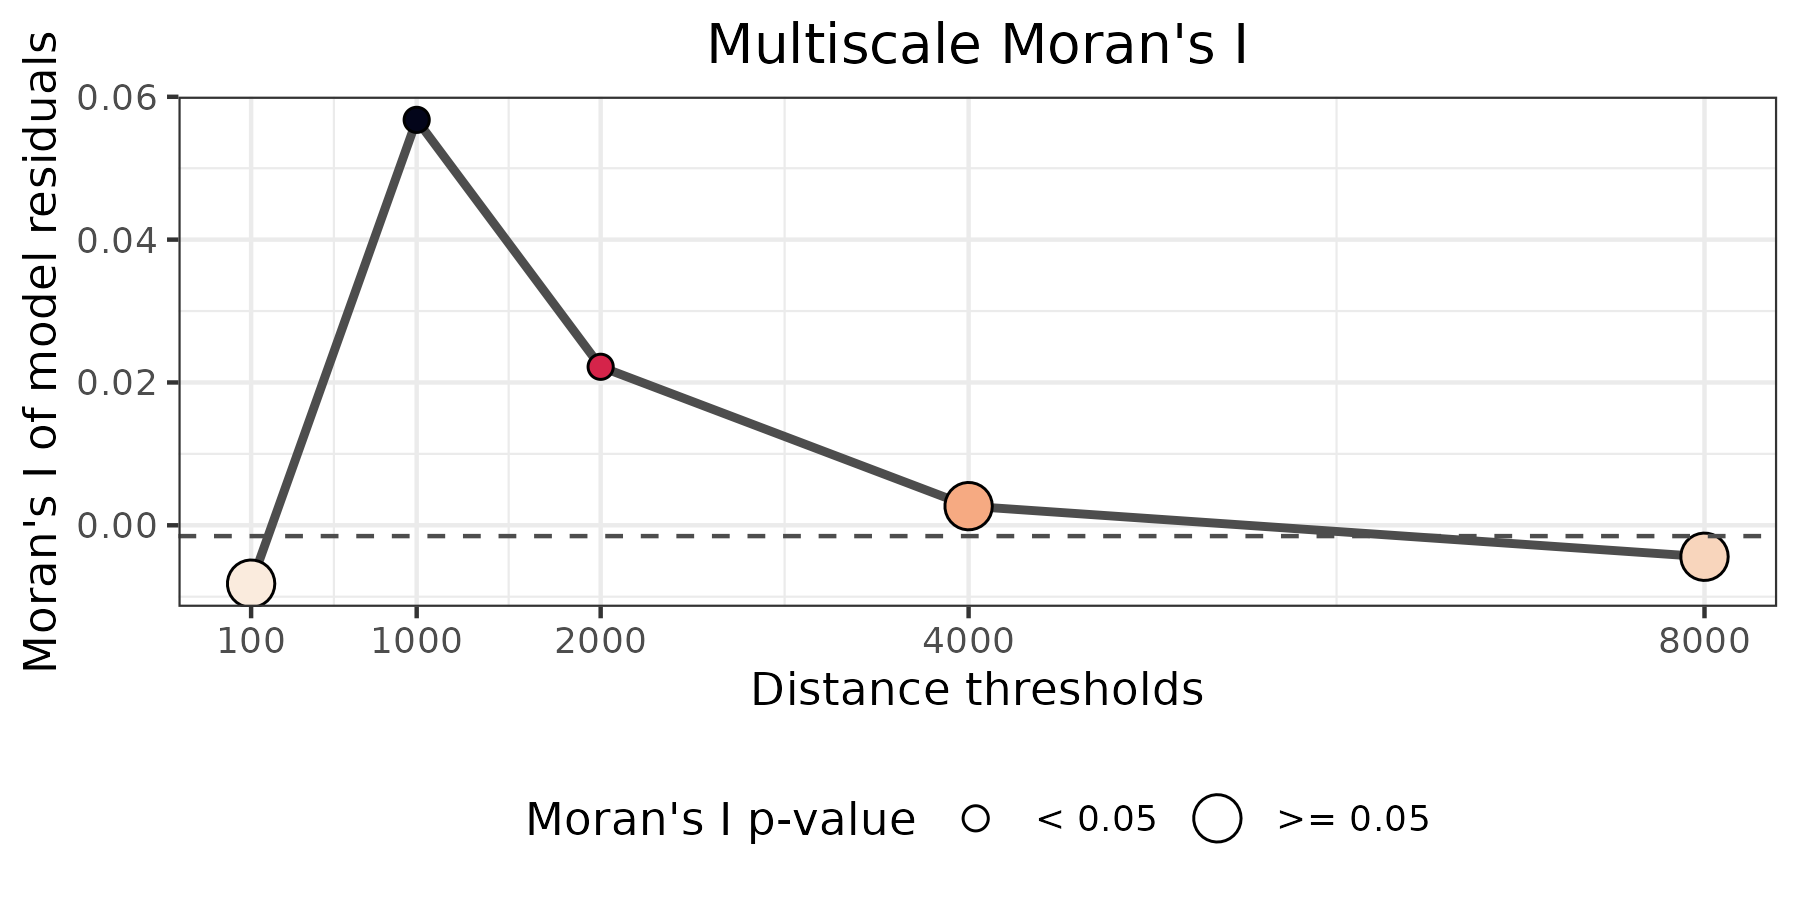
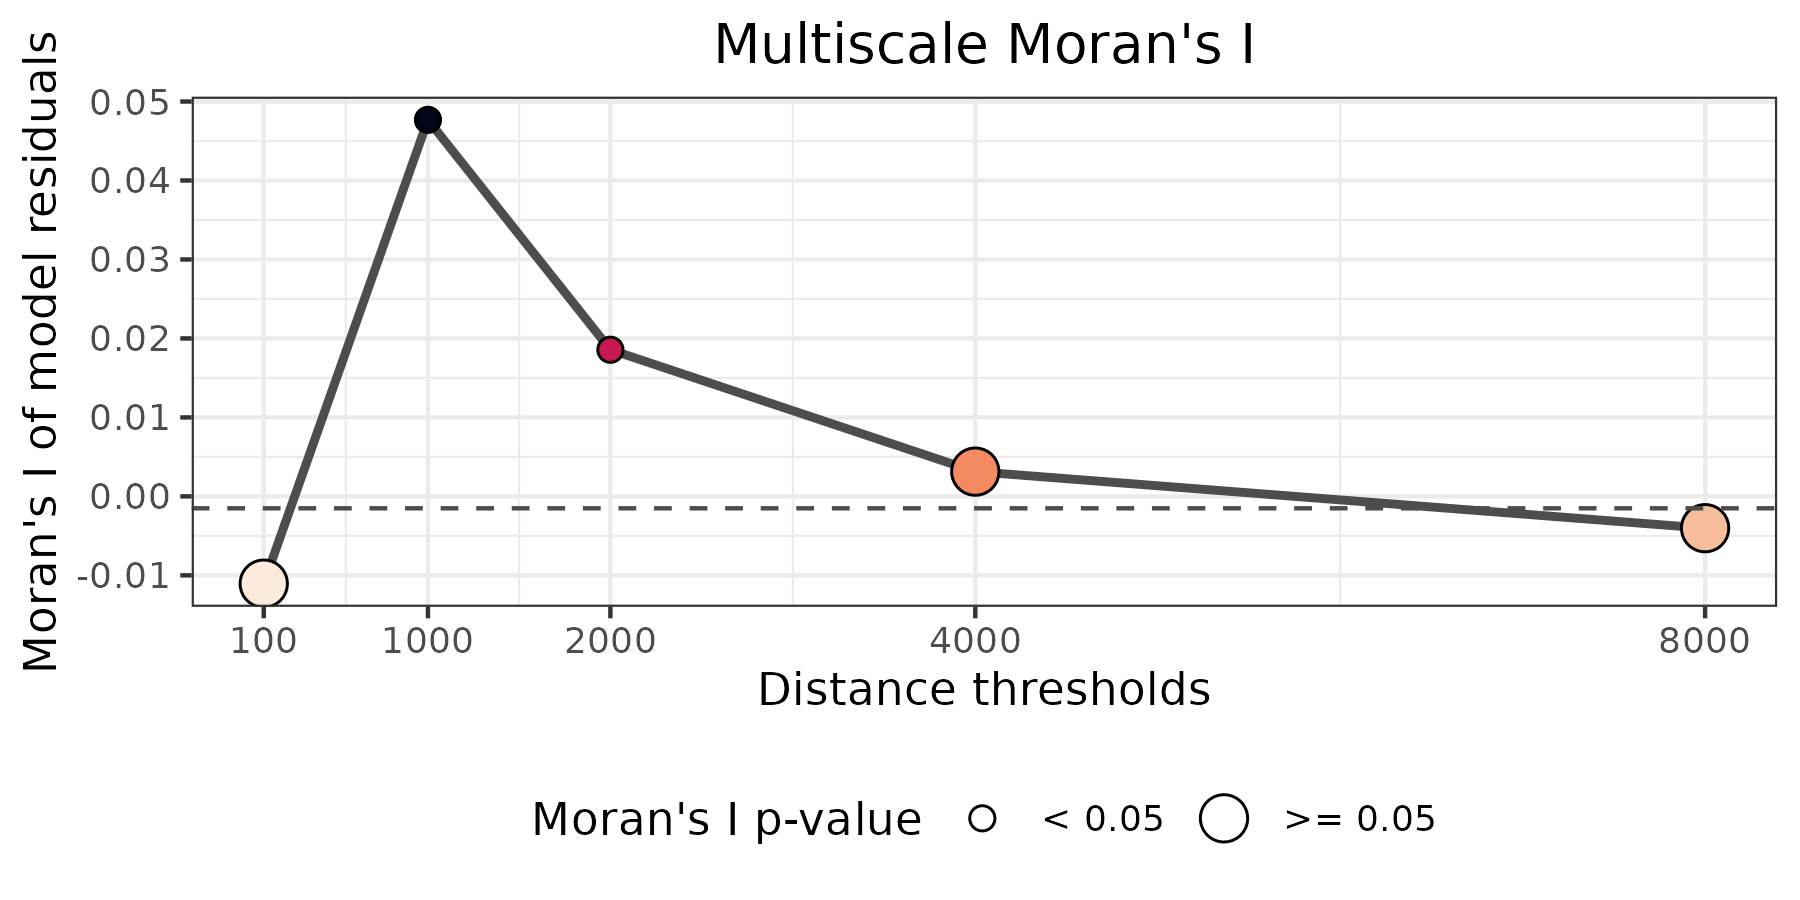
Deploying to gh-pages from @ BlasBenito/spatialData@04da23ed108ac5d3d7eef409ef45ea070589ce5c 🚀

diff --git a/articles/interaction.html b/articles/interaction.html
@@ -137,9 +137,9 @@ this tutorial.</p>
 <span><span class="co">#&gt; <span style="color: #00BBBB;">ℹ</span> Installing system requirements</span></span>
 <span><span class="co">#&gt; <span style="color: #00BBBB;">ℹ</span> Executing `sudo sh -c apt-get -y update`</span></span>
 <span><span class="co">#&gt; Get:1 file:/etc/apt/apt-mirrors.txt Mirrorlist [144 B]</span></span>
-<span><span class="co">#&gt; Hit:2 http://azure.archive.ubuntu.com/ubuntu noble InRelease</span></span>
 <span><span class="co">#&gt; Hit:6 https://packages.microsoft.com/repos/azure-cli noble InRelease</span></span>
 <span><span class="co">#&gt; Hit:7 https://packages.microsoft.com/ubuntu/24.04/prod noble InRelease</span></span>
+<span><span class="co">#&gt; Hit:2 http://azure.archive.ubuntu.com/ubuntu noble InRelease</span></span>
 <span><span class="co">#&gt; Hit:3 http://azure.archive.ubuntu.com/ubuntu noble-updates InRelease</span></span>
 <span><span class="co">#&gt; Hit:4 http://azure.archive.ubuntu.com/ubuntu noble-backports InRelease</span></span>
 <span><span class="co">#&gt; Hit:5 http://azure.archive.ubuntu.com/ubuntu noble-security InRelease</span></span>
@@ -170,8 +170,8 @@ this tutorial.</p>
 <span><span class="co">#&gt; libharfbuzz-dev is already the newest version (8.3.0-2build2).</span></span>
 <span><span class="co">#&gt; libxml2-dev is already the newest version (2.9.14+dfsg-1.3ubuntu3.7).</span></span>
 <span><span class="co">#&gt; The following additional packages will be installed:</span></span>
-<span><span class="co">#&gt;   dvisvgm fonts-lmodern fonts-texgyre fonts-texgyre-math libgumbo2</span></span>
-<span><span class="co">#&gt; libkpathsea6 libmujs3 libpotrace0 libptexenc1 libsynctex2 libteckit0</span></span>
+<span><span class="co">#&gt; dvisvgm fonts-lmodern fonts-texgyre fonts-texgyre-math libgumbo2</span></span>
+<span><span class="co">#&gt;   libkpathsea6 libmujs3 libpotrace0 libptexenc1 libsynctex2 libteckit0</span></span>
 <span><span class="co">#&gt;   libtexlua53-5 libwoff1 libzzip-0-13t64 lmodern mupdf-tools tex-gyre</span></span>
 <span><span class="co">#&gt;   texlive-base texlive-binaries texlive-fonts-recommended texlive-latex-base</span></span>
 <span><span class="co">#&gt;   texlive-latex-recommended tipa</span></span>
@@ -185,7 +185,7 @@ this tutorial.</p>
 <span><span class="co">#&gt;   libtexlua53-5 libwoff1 libzzip-0-13t64 lmodern mupdf-tools tex-gyre texlive</span></span>
 <span><span class="co">#&gt;   texlive-base texlive-binaries texlive-fonts-recommended texlive-latex-base</span></span>
 <span><span class="co">#&gt;   texlive-latex-recommended tipa</span></span>
-<span><span class="co">#&gt; 0 upgraded, 24 newly installed, 0 to remove and 19 not upgraded.</span></span>
+<span><span class="co">#&gt; 0 upgraded, 24 newly installed, 0 to remove and 34 not upgraded.</span></span>
 <span><span class="co">#&gt; Need to get 131 MB of archives.</span></span>
 <span><span class="co">#&gt; After this operation, 322 MB of additional disk space will be used.</span></span>
 <span><span class="co">#&gt; Get:1 file:/etc/apt/apt-mirrors.txt Mirrorlist [144 B]</span></span>
@@ -214,7 +214,7 @@ this tutorial.</p>
 <span><span class="co">#&gt; Get:24 http://azure.archive.ubuntu.com/ubuntu noble/universe amd64 texlive all 2023.20240207-1 [14.0 kB]</span></span>
 <span><span class="co">#&gt; Get:25 http://azure.archive.ubuntu.com/ubuntu noble/universe amd64 tipa all 2:1.3-21 [2967 kB]</span></span>
 <span><span class="co">#&gt; Preconfiguring packages ...</span></span>
-<span><span class="co">#&gt; Fetched 131 MB in 5s (28.7 MB/s)</span></span>
+<span><span class="co">#&gt; Fetched 131 MB in 6s (21.5 MB/s)</span></span>
 <span><span class="co">#&gt; Selecting previously unselected package libkpathsea6:amd64.</span></span>
 <span><span class="co">#&gt; (Reading database ...</span></span>
 <span><span class="co">#&gt; (Reading database ... 5%(Reading database ... 10%(Reading database ... 15%(Reading database ... 20%(Reading database ... 25%(Reading database ... 30%(Reading database ... 35%(Reading database ... 40%(Reading database ... 45%(Reading database ... 50%(Reading database ... 55%</span></span>
@@ -352,7 +352,7 @@ this tutorial.</p>
 <span><span class="co">#&gt; No user sessions are running outdated binaries.</span></span>
 <span><span class="co">#&gt; </span></span>
 <span><span class="co">#&gt; No VM guests are running outdated hypervisor (qemu) binaries on this host.</span></span>
-<span><span class="co">#&gt; <span style="color: #00BB00;">✔</span> 7 pkgs + 126 deps: kept 129 <span style="color: #B2B2B2;">[43.8s]</span></span></span></code></pre></div>
+<span><span class="co">#&gt; <span style="color: #00BB00;">✔</span> 7 pkgs + 126 deps: kept 129 <span style="color: #B2B2B2;">[43.4s]</span></span></span></code></pre></div>
 </div>
 <div class="section level2">
 <h2 id="data-structure">Data Structure<a class="anchor" aria-label="anchor" href="#data-structure"></a>
@@ -445,7 +445,7 @@ using the prediction of the host plant model as a biotic predictor along
 with the abiotic ones.</p></li>
 </ul>
 <div class="section level3">
-<h3 id="host-plant-model">Host plant model<a class="anchor" aria-label="anchor" href="#host-plant-model"></a>
+<h3 id="host-plant-model">Host Plant Model<a class="anchor" aria-label="anchor" href="#host-plant-model"></a>
 </h3>
 <p>To train the host plant model we first prepare a training data frame
 with the plant and background records, and a data frame with case
@@ -557,7 +557,7 @@ column <code>host_plant_suitability</code>.</p>
 <span><span class="co">#&gt; [1] 0.9733667 0.9901333 0.9858000 0.9870667 0.9959333 0.9914667</span></span></code></pre></div>
 </div>
 <div class="section level3">
-<h3 id="butterfly-model">Butterfly model<a class="anchor" aria-label="anchor" href="#butterfly-model"></a>
+<h3 id="butterfly-model">Butterfly Model<a class="anchor" aria-label="anchor" href="#butterfly-model"></a>
 </h3>
 <p>To model the distribution of the butterfly, we prepare
 <code>butterfly_df</code> and <code>butterfly_xy</code> in the same way
@@ -676,7 +676,7 @@ between <code>host_plant_suitability</code> and the other
 predictors.</p>
 </div>
 <div class="section level3">
-<h3 id="habitat-suitability-maps">Habitat suitability maps<a class="anchor" aria-label="anchor" href="#habitat-suitability-maps"></a>
+<h3 id="habitat-suitability-maps">Habitat Suitability Maps<a class="anchor" aria-label="anchor" href="#habitat-suitability-maps"></a>
 </h3>
 <p>With both models trained, we can now project habitat suitability
 across the Sierra Nevada. The package <code>spatialData</code> provides
@@ -685,7 +685,7 @@ purpose.</p>
 <div class="sourceCode" id="cb20"><pre class="downlit sourceCode r">
 <code class="sourceCode R"><span><span class="va">sierra_nevada_env</span> <span class="op">&lt;-</span> <span class="fu">spatialData</span><span class="fu">::</span><span class="fu"><a href="../reference/interaction_extra.html">interaction_extra</a></span><span class="op">(</span><span class="op">)</span></span>
 <span><span class="co">#&gt; spatialData::interaction_extra(): Downloading file 'sierra_nevada_env.tif'.</span></span>
-<span><span class="fu"><a href="https://rdrr.io/r/graphics/plot.default.html" class="external-link">plot</a></span><span class="op">(</span><span class="va">sierra_nevada_env</span>, nc <span class="op">=</span> <span class="fl">2</span>, col <span class="op">=</span> <span class="fu">raster_colors</span><span class="op">(</span><span class="fl">100</span><span class="op">)</span><span class="op">)</span></span></code></pre></div>
+<span><span class="fu"><a href="https://rdrr.io/r/graphics/plot.default.html" class="external-link">plot</a></span><span class="op">(</span><span class="va">sierra_nevada_env</span>, nc <span class="op">=</span> <span class="fl">2</span>, col <span class="op">=</span> <span class="fu">env_colors</span><span class="op">(</span><span class="fl">100</span><span class="op">)</span><span class="op">)</span></span></code></pre></div>
 <p><img src="interaction_files/figure-html/unnamed-chunk-22-1.png" class="r-plt" alt="" width="100%" style="display: block; margin: auto;"></p>
 <p>We can project a model onto this raster dataset using
 <code><a href="https://rspatial.github.io/terra/reference/predict.html" class="external-link">terra::predict()</a></code>.</p>

diff --git a/index.html b/index.html
@@ -77,8 +77,11 @@
 <div class="section level2">
 <h2 id="installation">Installation<a class="anchor" aria-label="anchor" href="#installation"></a>
 </h2>
-<p>Install the development version from <a href="https://github.com/blasbenito/spatialData" class="external-link">GitHub</a>.</p>
+<p>Install from CRAN.</p>
 <div class="sourceCode" id="cb1"><pre class="downlit sourceCode r">
+<code class="sourceCode R"><span><span class="fu"><a href="https://rdrr.io/r/utils/install.packages.html" class="external-link">install.packages</a></span><span class="op">(</span><span class="st">"spatialData"</span><span class="op">)</span></span></code></pre></div>
+<p>Install the development version from <a href="https://github.com/blasbenito/spatialData" class="external-link">GitHub</a>.</p>
+<div class="sourceCode" id="cb2"><pre class="downlit sourceCode r">
 <code class="sourceCode R"><span><span class="kw"><a href="https://rdrr.io/r/base/library.html" class="external-link">library</a></span><span class="op">(</span><span class="va"><a href="https://pak.r-lib.org/" class="external-link">pak</a></span><span class="op">)</span></span>
 <span><span class="fu">pak</span><span class="fu">::</span><span class="fu"><a href="https://pak.r-lib.org/reference/pkg_install.html" class="external-link">pkg_install</a></span><span class="op">(</span><span class="st">"blasbenito/spatialData"</span><span class="op">)</span></span></code></pre></div>
 </div>
@@ -86,7 +89,7 @@
 <h2 id="data-loading">Data Loading<a class="anchor" aria-label="anchor" href="#data-loading"></a>
 </h2>
 <p>As with other example datasets in the R language, the different datasets in <code>spatialData</code> can be loaded with the function <code><a href="https://rdrr.io/r/utils/data.html" class="external-link">data()</a></code>.</p>
-<div class="sourceCode" id="cb2"><pre class="downlit sourceCode r">
+<div class="sourceCode" id="cb3"><pre class="downlit sourceCode r">
 <code class="sourceCode R"><span><span class="kw"><a href="https://rdrr.io/r/base/library.html" class="external-link">library</a></span><span class="op">(</span><span class="va"><a href="https://blasbenito.github.io/spatialData/">spatialData</a></span><span class="op">)</span></span>
 <span><span class="co">#&gt; </span></span>
 <span><span class="co">#&gt; Attaching package: 'spatialData'</span></span>
@@ -373,7 +376,7 @@
 <h2 id="citation">Citation<a class="anchor" aria-label="anchor" href="#citation"></a>
 </h2>
 <p>The license of <code>spatialData</code> requires the following citation:</p>
-<div class="sourceCode" id="cb3"><pre class="downlit sourceCode r">
+<div class="sourceCode" id="cb4"><pre class="downlit sourceCode r">
 <code class="sourceCode R"><span><span class="fu"><a href="https://rdrr.io/r/utils/citation.html" class="external-link">citation</a></span><span class="op">(</span><span class="st">"spatialData"</span><span class="op">)</span></span>
 <span><span class="co">#&gt; To cite package 'spatialData' in publications use:</span></span>
 <span><span class="co">#&gt; </span></span>
@@ -461,6 +464,7 @@
   </main><aside class="col-md-3"><div class="links">
 <h2 data-toc-skip>Links</h2>
 <ul class="list-unstyled">
+<li><a href="https://cloud.r-project.org/package=spatialData" class="external-link">View on CRAN</a></li>
 <li><a href="https://github.com/BlasBenito/spatialData/" class="external-link">Browse source code</a></li>
 <li><a href="https://github.com/BlasBenito/spatialData/issues" class="external-link">Report a bug</a></li>
 </ul>
@@ -495,6 +499,8 @@
 <ul class="list-unstyled">
 <li><a href="https://github.com/BlasBenito/spatialData/actions/workflows/R-CMD-check.yaml" class="external-link"><img src="https://github.com/BlasBenito/spatialData/actions/workflows/R-CMD-check.yaml/badge.svg" alt="R-CMD-check"></a></li>
 <li><a href="https://doi.org/10.5281/zenodo.19508673" class="external-link"><img src="https://zenodo.org/badge/DOI/10.5281/zenodo.19508673.svg" alt="DOI"></a></li>
+<li><a href="https://cran.r-project.org/package=spatialData" class="external-link"><img src="https://www.r-pkg.org/badges/version/spatialData" alt="CRAN status"></a></li>
+<li><a href="https://CRAN.R-project.org/package=spatialData" class="external-link"><img src="http://cranlogs.r-pkg.org/badges/grand-total/spatialData" alt="CRAN_Download_Badge"></a></li>
 </ul>
 </div>
 

diff --git a/articles/linaria_files/Greenhouses-CSS-0.0.1/Greenhouses_home-button.css b/articles/linaria_files/Greenhouses-CSS-0.0.1/Greenhouses_home-button.css
@@ -1,0 +1,3 @@
+.leaflet-bar button {background-color:#ffffff95;border:none;width:100%;height:20px;line-height:15px;font-size:85%;text-align:center;text-decoration:none;color:black;cursor:pointer;overflow-x:visible;overflow-y:hidden;opacity:0.25;background-position:50% 50%;background-repeat:no-repeat;display:inline-block} 
+
+ .leaflet-bar button:hover {background-color:#00ffff;text-decoration:underline;opacity:0.9}

diff --git a/articles/linaria_files/Greenhouses_presence-CSS-0.0.1/Greenhouses_presence_home-button.css b/articles/linaria_files/Greenhouses_presence-CSS-0.0.1/Greenhouses_presence_home-button.css
@@ -1,0 +1,3 @@
+.leaflet-bar button {background-color:#ffffff95;border:none;width:100%;height:20px;line-height:15px;font-size:85%;text-align:center;text-decoration:none;color:black;cursor:pointer;overflow-x:visible;overflow-y:hidden;opacity:0.25;background-position:50% 50%;background-repeat:no-repeat;display:inline-block} 
+
+ .leaflet-bar button:hover {background-color:#00ffff;text-decoration:underline;opacity:0.9}

diff --git a/articles/linaria_files/Greenhouses_suitability-CSS-0.0.1/Greenhouses_suitability_home-button.css b/articles/linaria_files/Greenhouses_suitability-CSS-0.0.1/Greenhouses_suitability_home-button.css
@@ -1,0 +1,3 @@
+.leaflet-bar button {background-color:#ffffff95;border:none;width:100%;height:20px;line-height:15px;font-size:85%;text-align:center;text-decoration:none;color:black;cursor:pointer;overflow-x:visible;overflow-y:hidden;opacity:0.25;background-position:50% 50%;background-repeat:no-repeat;display:inline-block} 
+
+ .leaflet-bar button:hover {background-color:#00ffff;text-decoration:underline;opacity:0.9}

diff --git a/articles/linaria_files/Known_populations-CSS-0.0.1/Known_populations_home-button.css b/articles/linaria_files/Known_populations-CSS-0.0.1/Known_populations_home-button.css
@@ -1,0 +1,3 @@
+.leaflet-bar button {background-color:#ffffff95;border:none;width:100%;height:20px;line-height:15px;font-size:85%;text-align:center;text-decoration:none;color:black;cursor:pointer;overflow-x:visible;overflow-y:hidden;opacity:0.25;background-position:50% 50%;background-repeat:no-repeat;display:inline-block} 
+
+ .leaflet-bar button:hover {background-color:#00ffff;text-decoration:underline;opacity:0.9}

diff --git a/articles/linaria_files/Linaria_nigricans-CSS-0.0.1/Linaria_nigricans_home-button.css b/articles/linaria_files/Linaria_nigricans-CSS-0.0.1/Linaria_nigricans_home-button.css
@@ -1,0 +1,3 @@
+.leaflet-bar button {background-color:#ffffff95;border:none;width:100%;height:20px;line-height:15px;font-size:85%;text-align:center;text-decoration:none;color:black;cursor:pointer;overflow-x:visible;overflow-y:hidden;opacity:0.25;background-position:50% 50%;background-repeat:no-repeat;display:inline-block} 
+
+ .leaflet-bar button:hover {background-color:#00ffff;text-decoration:underline;opacity:0.9}

diff --git a/articles/linaria_files/Linaria_suitability-CSS-0.0.1/Linaria_suitability_home-button.css b/articles/linaria_files/Linaria_suitability-CSS-0.0.1/Linaria_suitability_home-button.css
@@ -1,0 +1,3 @@
+.leaflet-bar button {background-color:#ffffff95;border:none;width:100%;height:20px;line-height:15px;font-size:85%;text-align:center;text-decoration:none;color:black;cursor:pointer;overflow-x:visible;overflow-y:hidden;opacity:0.25;background-position:50% 50%;background-repeat:no-repeat;display:inline-block} 
+
+ .leaflet-bar button:hover {background-color:#00ffff;text-decoration:underline;opacity:0.9}

diff --git a/articles/linaria_files/Potential_risk-CSS-0.0.1/Potential_risk_home-button.css b/articles/linaria_files/Potential_risk-CSS-0.0.1/Potential_risk_home-button.css
@@ -1,0 +1,3 @@
+.leaflet-bar button {background-color:#ffffff95;border:none;width:100%;height:20px;line-height:15px;font-size:85%;text-align:center;text-decoration:none;color:black;cursor:pointer;overflow-x:visible;overflow-y:hidden;opacity:0.25;background-position:50% 50%;background-repeat:no-repeat;display:inline-block} 
+
+ .leaflet-bar button:hover {background-color:#00ffff;text-decoration:underline;opacity:0.9}

diff --git a/articles/linaria_files/Risk-CSS-0.0.1/Risk_home-button.css b/articles/linaria_files/Risk-CSS-0.0.1/Risk_home-button.css
@@ -1,0 +1,3 @@
+.leaflet-bar button {background-color:#ffffff95;border:none;width:100%;height:20px;line-height:15px;font-size:85%;text-align:center;text-decoration:none;color:black;cursor:pointer;overflow-x:visible;overflow-y:hidden;opacity:0.25;background-position:50% 50%;background-repeat:no-repeat;display:inline-block} 
+
+ .leaflet-bar button:hover {background-color:#00ffff;text-decoration:underline;opacity:0.9}

diff --git a/news/index.html b/news/index.html
@@ -46,7 +46,7 @@
     </div>
 
     <div class="section level2">
-<h2 class="pkg-version" data-toc-text="1.0.0" id="spatialdata-100">spatialData 1.0.0<a class="anchor" aria-label="anchor" href="#spatialdata-100"></a></h2>
+<h2 class="pkg-version" data-toc-text="1.0.0" id="spatialdata-100">spatialData 1.0.0<a class="anchor" aria-label="anchor" href="#spatialdata-100"></a></h2><p class="text-muted">CRAN release: 2026-04-21</p>
 <p>First release of <code>spatialData</code> on CRAN, with the following datasets:</p>
 <ul><li>
 <code>neanderthal</code>: Neanderthal presence/pseudo-absence records with 25 palaeoclimatic and topographic predictors (<code>neanderthal_response</code>, <code>neanderthal_predictors</code>).</li>